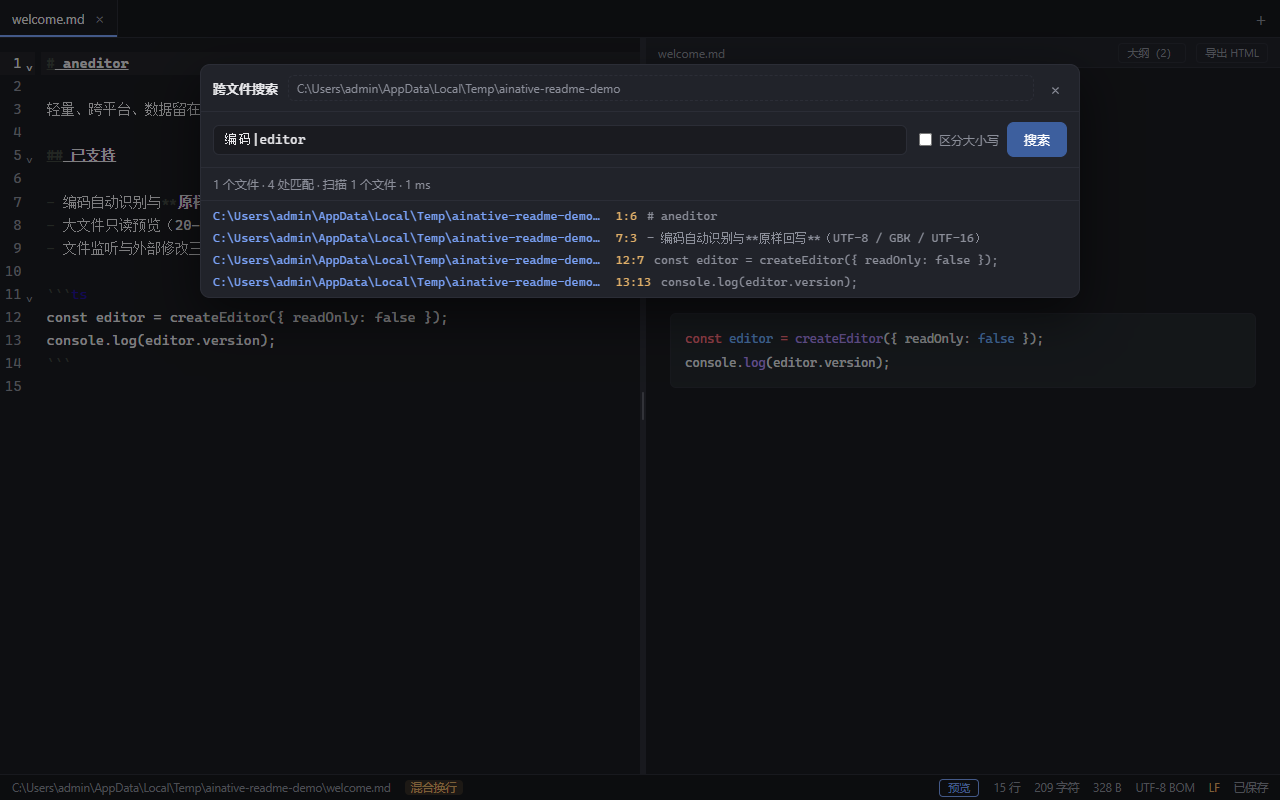
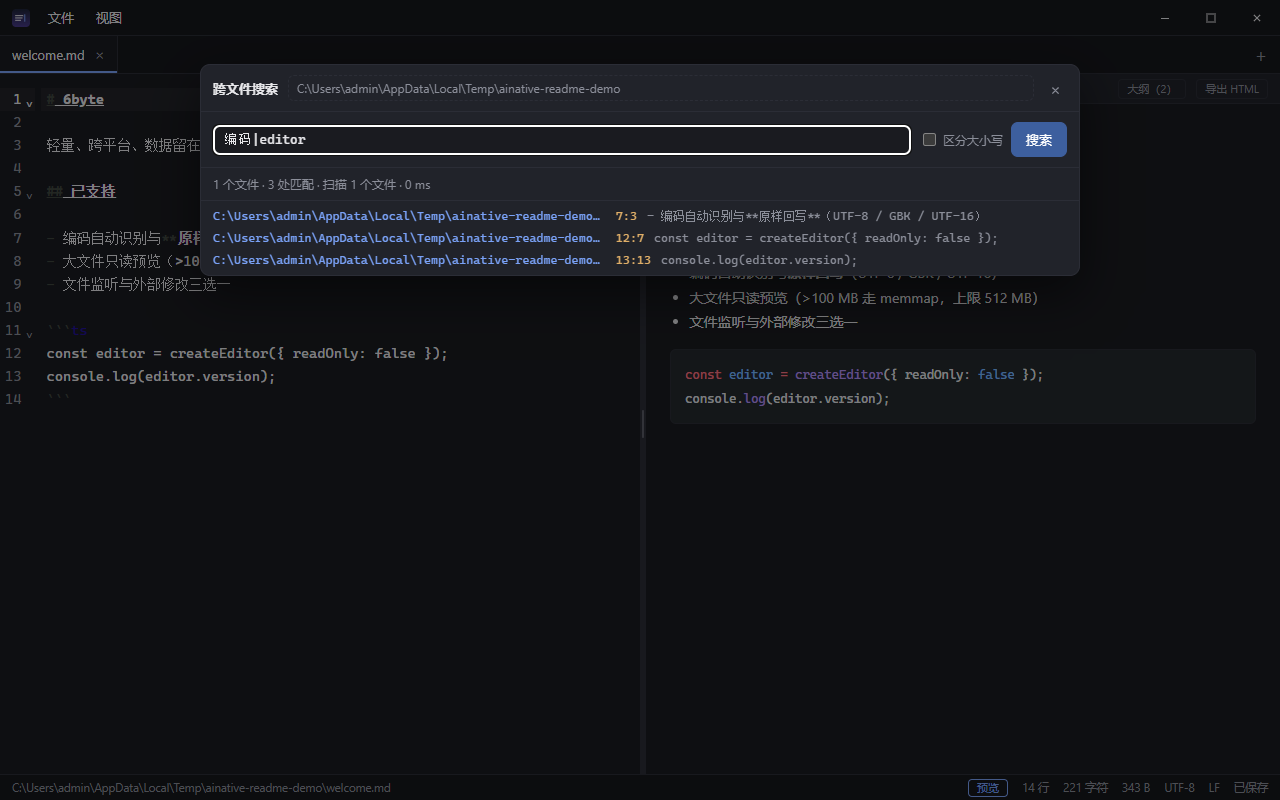
docs: re-audit the backlog; make E2E idempotent
核对 master/CI/Release；修正 README/CHANGELOG/perf/checklist/路线图；新增 T51–T53；E2E 第 0 步清理会话；截图脚本修复。

diff --git a/docs/待办清单.md b/docs/待办清单.md
@@ -11,14 +11,14 @@
 
 | 项 | 状态 |
 |---|---|
-| 分支 | `master`（**受保护**：禁 force push / 禁删除 / 管理员同样受限 / 要求 6 项 CI 检查；改动走 PR），`origin` = `git@github.com:wufangqi/6byte.git`；tag `v0.1.0`–`v0.1.4` |
+| 分支 | `master`（**受保护**：禁 force push / 禁删除 / 管理员同样受限 / 要求 6 项 CI 检查；改动走 PR），`origin` = `git@github.com:wufangqi/6byte.git`；tag `v0.1.0`–`v0.1.5` |
 | 仓库 | **public**（MIT）；默认分支 `master`；描述、homepage、topics 已配置；<https://github.com/wufangqi/6byte> |
 | 发布 | GitHub Release **v0.1.5**：<https://github.com/wufangqi/6byte/releases/tag/v0.1.5>（memmap L3 / 图片内联 / 另存为防重复），附 NSIS 2.09 MB / MSI 2.75 MB；前一个 6byte 版本为 v0.1.4 |
 | 功能 | M0–M2：编码内核、数据安全加固、大文件分级只读预览（L3 >100 MB memmap，上限 512 MB）、文件监听、跨文件 grep、Markdown 分屏预览/导出（图片内联，中文与空格路径）/大纲/图片粘贴/Shiki 高亮/Mermaid/KaTeX、分屏拖拽调宽、最近打开删除、另存为防重复；浅色/深色/跟随系统；自定义标题栏（文件菜单、视图菜单、应用图标）；新建窗口为空白会话；预览开关按文件独立且重新打开回到编辑模式；中英文 README。以上标题栏与预览改动在本地已安装，版本号仍是 0.1.5，尚未发 Release |
-| 质量 | `tsc` ✅ / `eslint` ✅ / `prettier --check` ✅ / `vitest` ✅ **102/102** / `cargo fmt --check` ✅ / `cargo clippy -D warnings` ✅ / `cargo test --lib` ✅ **53 passed, 0 failed**（+4 ignored 性能探针，共 57 用例；含 `list_text_files`）/ E2E **59/59**（15 步，未覆盖标题栏与按文件预览） |
+| 质量 | `tsc` ✅ / `eslint` ✅ / `prettier --check` ✅ / `vitest` ✅ **102/102** / `cargo fmt --check` ✅ / `cargo clippy -D warnings` ✅ / `cargo test --lib` ✅ **53 passed, 0 failed**（+4 ignored 性能探针，共 57 用例；含 `list_text_files`）/ E2E **59/59**（15 步；第 0 步会先清空会话，未覆盖标题栏/主题/按文件预览/Mermaid/KaTeX） |
 | CI | 三平台（Windows/macOS/Ubuntu）× 前端 + Rust；PR #1 六项检查全绿；master 直推已被保护规则拦截（实测 `protected branch hook declined`） |
-| 构建 | 本地 `pnpm tauri build` ✅ MSI 2.75 MB / NSIS 2.09 MB；发版资产目前手动上传（自动化见 §5 M-08） |
-| 安装 | ✅ 2026-10-22 17:05 已把含标题栏与按文件预览的构建装到 `C:\Users\admin\AppData\Local\6byte` 并重新打开（核对过与构建产物一致） |
+| 构建 | 本地 `pnpm tauri build` ✅ MSI 4.95 MB / NSIS 4.24 MB（含 KaTeX/Mermaid 资源；v0.1.5 发布时为 2.75/2.09）；发版资产手动上传（自动化见 §5 M-08） |
+| 安装 | ✅ 2026-10-22 17:35 已把含标题栏/主题/按文件预览/KaTeX/Mermaid 的本地构建装到 `C:\Users\admin\AppData\Local\6byte` 并跑通 E2E（版本号仍 0.1.5，未发 Release） |
 | 性能 | 冷启动中位 **0.094 s** / 10 MB 解码 **14.1 ms** / 100 MB 行索引 **64.6 ms** / 120 MB memmap 索引 **93.1 ms**、区间读取 **0.48 ms** / 35 MB 打开到首屏 **458 ms** / 空载私有内存 **220 MB**（预算 ≤230 MB 基线）/ 输入处理 P95：**5.6 ms**（1000 行 L0）、**3.0 ms**（10 MB L1）、**2.7 ms**（19 MB L1），预算 ≤16 ms（`docs/perf.md` §7） |
 | 文档 | README（中/英）、CHANGELOG、CONTRIBUTING、LICENSE、`docs/perf.md`、`docs/release-checklist.md`、`docs/项目梳理.md`、`docs/assets/`、本清单 |
 
@@ -52,7 +52,7 @@
 | T22 | P3 | 开源运营：README GIF、发布清单、首次发布 | 路线图 §9 | T01–T09、T15 | 与 M1 并行 | ✅ 完成（发布清单 + README 截图 + v0.1.0 首次发布，含 MSI/NSIS 资产）；GIF 未做（可选，后续补） |
 | T23 | P2 | 内存预算复核与优化（空载 220 MB，WebView2 基线） | T07 实测 / docs/perf.md | — | 1–2 d | ✅ 完成（结论见 perf.md §2.3） |
 
-**进度：23 项中已完成 21 项，剩余 T20（M3 AI 层）与 T21（M4 分发）。** M0–M2 全部交付；v0.1.4 已发布、仓库已公开并启用 master 保护；维护项见 §5，后续拆解见 §11（T24–T50）。
+**进度：23 项中已完成 21 项，剩余 T20（M3 AI 层）与 T21（M4 分发）。** M0–M2 全部交付（含 Mermaid/KaTeX）；v0.1.5 已发布；标题栏/主题/按文件预览/打开文件夹/新窗口已合入但未发版（版本号仍 0.1.5，待 v0.1.6）；维护项见 §5，后续拆解见 §11（T24–T53）。
 
 ---
 
@@ -115,6 +115,8 @@
 | M-09 | 仓库协作模板 | 无 PR / Issue 模板，无依赖更新 | 加 `.github/pull_request_template.md`、Issue 模板、Dependabot（周更） |
 | M-10 | 界面 i18n | 界面仅中文（英文 README 已有） | M4 T45：抽离文案、中英切换并持久化 |
 | M-11 | 一键提 PR 辅助 | master 保护后每次改动都要「分支 → PR → CI → 合并」 | 加 `scripts/ship.ps1`（建分支、推送、开 PR、轮询 checks、合并）减少手工步骤 |
+| M-12 | 浅色主题一致性 | shiki 固定 `github-dark`、Mermaid 固定 dark；浅色 UI 下代码块与图表仍是深色 | T53：按当前主题选择 shiki theme 与 mermaid theme |
+| M-13 | E2E 可重复运行 | 残留会话会让首步失败（本次实测 18 条） | ✅ 已修：脚本第 0 步清空 session/recent 并重载 |
 
 ---
 
@@ -431,11 +433,18 @@
 | T49 | P2 | `scripts/ship.ps1`：建分支 → push → 开 PR → 轮询 checks → 合并（master 保护下的一键交付） | master 保护 | 1 d | 一条命令完成一次改动交付 |
 | T50 | P3 | 发布说明自动生成（CHANGELOG 片段 → Release Notes） | T47 | 0.5 d | Release Notes 与 CHANGELOG 一致，无需手写 |
 
+### 阶段 G · 新 UI 收尾（新增，v0.1.6 前）
+
+| 编号 | 优先级 | 任务 | 依赖 | 预估 | 验收 |
+|---|---|---|---|---|---|
+| T51 | P2 | E2E 覆盖标题栏菜单（文件/视图）、主题切换持久化、按文件预览独立、Mermaid/KaTeX 渲染 | 第二十六批 UI | 1 d | 新增 ≥6 条断言；E2E 仍全绿 |
+| T52 | P2 | 发版 v0.1.6：版本号、CHANGELOG、README 计数与截图、Release 资产 | T51 | 0.5 d | Release 页面含新 UI 说明与安装包 |
+| T53 | P2 | 浅色主题一致性：shiki 按主题切 github-light/dark，Mermaid 同步 theme | — | 1 d | 浅色 UI 下代码块/图表为浅色 |
 ### 建议的最近 3 步（2026-10-22 更新）
 
-1. **工程效率**：M-08 + M-11（T47 自动发布 + T49 一键 PR），然后进入 **M3 T34（Provider 抽象）**；
-2. **发版前**：M-07 人工验收（IME、超大单行、异常文案）；
-3. **M3 AI 层**：T34 Provider 抽象。
+1. **收尾新 UI**：T51（E2E 覆盖标题栏/主题/按文件预览/图表）+ T53（浅色主题一致性）；
+2. **发版 v0.1.6**：T52（版本号、CHANGELOG、README 截图与计数、Release 资产）；
+3. **工程效率**：M-08 + M-11（自动发布 + 一键 PR），随后进入 **M3 T34（Provider 抽象）**。
 
 ### 2026-10-21 · 第十四批（T24/T25：远端、CI、发布 v0.1.0）
 
@@ -555,3 +564,15 @@
 | 图片 | 未加引号、带空格或中文的本地图片路径可以进预览；百分号编码会先解码再读文件 |
 | 测试 | `vitest` **102/102**；`list_text_files` 单测通过；本机安装包与 17:00 构建产物一致后已重新打开 |
 | 未发版 | 版本号仍是 0.1.5。这批在 CHANGELOG 的 Unreleased，还没有新的 GitHub Release |
+
+### 2026-10-22 · 第二十七批（待办重检 + E2E 起始状态修复）
+
+| 项 | 内容 |
+|---|---|
+| 重检结论 | master `5390ec5`（PR #5 合并）与 CI 全部 success；Releases 最新为 **v0.1.5**（tag 与资产齐全），无未合并 PR；本地已构建 v0.1.5 号但包含第二十四–二十六批的新功能，**尚未发 Release** |
+| 发现 1（E2E 不稳定） | 首次跑 E2E 出现 18 条失败：应用恢复上次会话（含已删除文件）后首步读到旧状态。清理会话后 **59/59 全绿**；已在 `e2e-smoke.ps1` 开头加「第 0 步：清空 session/recent 并重载」使脚本可重复运行 |
+| 发现 2（体积变化） | 引入 KaTeX/Mermaid 与字体后：主包 938.6 KB、dist 总计 **8.57 MB**、exe 7.15 MB、NSIS **4.24 MB**、MSI **4.95 MB**（README/perf 仍写 2.09/2.75 MB，已修正；安装包预算 ≤20 MB 仍满足） |
+| 发现 3（文档滞后） | README 未记录标题栏/菜单/主题/按文件预览/打开文件夹/新窗口；验证计数仍是 77/52；CHANGELOG 无 Unreleased 条目；release-checklist 未覆盖新 UI；路线图 IPC 缺 `list_text_files`；截图仍是旧窗口外观 |
+| 发现 4（已知缺口） | 浅色主题下代码高亮（shiki github-dark）与 Mermaid 仍固定深色；新 UI（菜单/主题/按文件预览/图表）未纳入 E2E；截图与发版需要等 v0.1.6 |
+| 新任务 | T51 E2E 覆盖标题栏/主题/按文件预览/Mermaid/KaTeX；T52 发版 v0.1.6（版本号、CHANGELOG、截图、Release）；T53 浅色主题下代码高亮与图表配色 |
+| 验证 | `tsc` / `eslint` / `prettier` 全绿；`vitest` **102/102**；Rust `fmt` / `clippy` / **53 passed + 4 ignored**；清会话后 E2E **59/59** |

diff --git a/docs/perf.md b/docs/perf.md
@@ -29,8 +29,9 @@
 | 跨文件 grep（1000 个文件） | ≤ 2 s | **64.5 ms**（每文件 20 行） | ✅ |
 | 输入延迟 P95（按键 → 编辑器布局） | ≤ 16 ms | 1000 行 L0 **5.6 ms**；10 MB L1 **3.0 ms**；19 MB L1 **2.7 ms** | ✅ |
 | 3 文件内存 | ≤ 260 MB（空载基线 ≤230 MB） | 空文档私有内存 **220 MB**（工作集 427 MB）；关 GPU 可到 159 MB | ⚠ 预算按实测修订（见 §2.3） |
-| 前端包体 | — | 主包 **947 KB / gzip 325 KB**（+ Shiki 按需 chunk，总计 2.3 MB） | ✅ |
-| 安装包 | ≤ 20 MB | NSIS 2.09 MB / MSI 2.75 MB | ✅ |
+| KaTeX 字体与 Mermaid | — | `mermaid.core` 677 KB、`katex` 256 KB 及 KaTeX 字体按需加载，只影响包体不影响首屏 | ✅ |
+| 前端包体 | — | 主包 **961 KB / gzip 330 KB**；dist 总计 **8.6 MB**（Shiki/KaTeX/Mermaid 与 KaTeX 字体按需） | ✅ |
+| 安装包 | ≤ 20 MB | NSIS 4.24 MB / MSI 4.95 MB（含 KaTeX/Mermaid 资源） | ✅ |
 
 ## 1. 冷启动
 
@@ -208,11 +209,11 @@ cargo test --release --lib perf_grep -- --ignored --nocapture
 
 | 产物 | 体积 |
 |---|---|
-| `dist/assets/index-*.js` | 946.5 KB（gzip 325.0 KB） |
-| `dist/assets/index-*.css` | 14.0 KB（gzip 3.1 KB） |
-| MSI | 2.75 MB |
-| NSIS setup | 2.09 MB |
-| 应用 exe（release） | 4.94 MB |
+| `dist/assets/index-*.js` | 961.2 KB（gzip 329.6 KB） |
+| `dist/assets/index-*.css` | 16.6 KB（gzip 3.7 KB） |
+| MSI | 4.95 MB |
+| NSIS setup | 4.24 MB |
+| 应用 exe（release） | 7.15 MB |
 
 ## 7. 输入延迟（M-02 / T27）
 

diff --git a/docs/release-checklist.md b/docs/release-checklist.md
@@ -41,6 +41,10 @@
 - ✅ 代码高亮：Shiki 渲染 10 种常用语言，未知语言回退纯文本且不报错
 - ✅ Mermaid：预览把 ` ```mermaid ` 渲染成图；无法解析时保留代码块
 - ✅ KaTeX：`$…$` / `$$…$$` 渲染为公式；无法解析时仍显示原文
+- ✅ 标题栏：文件菜单（新建 / 新窗口 / 打开文件 / 打开文件夹 / 打开最近 / 保存 / 另存为 / 保存全部）与视图菜单（浅色 / 深色 / 跟随系统）可点；窗口最小化 / 最大化 / 关闭正常
+- ✅ 主题：切换后重启仍保留；编辑器、预览跟随；浅色下代码块与 Mermaid 仍为深色（已知，T53）
+- ✅ 按文件预览：A 文件开预览 → 切到 B 无预览 → 切回 A 仍有预览；关闭重开回到编辑模式
+- ✅ 打开文件夹：选目录后打开 ≤40 个文本文件；新窗口是空白会话，不覆盖主窗口会话
 - 👁 中文输入法（IME）下的组合输入、选词与撤销
 - 👁 超大单行（压缩 JSON）的渲染与滚动
 

diff --git a/CHANGELOG.md b/CHANGELOG.md
@@ -5,6 +5,8 @@
 
 ## [Unreleased]
 
+> 计划随 **v0.1.6** 发布；当前代码版本号仍为 0.1.5。
+
 ### Added
 
 - Markdown 预览支持 **Mermaid** 图表和 **KaTeX** 公式（`$…$` / `$$…$$`），两者都按需加载。
